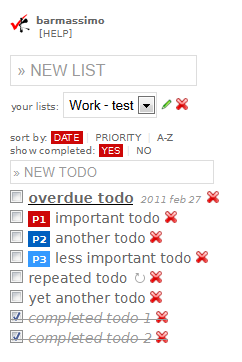
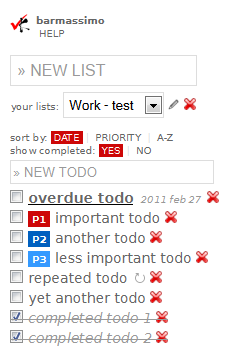
todo edit: added ok button minor fixes

Changed region(s): [[0.0295, 0.1536, 0.9451, 0.9832], [0.1477, 0.0307, 0.443, 0.1229], [0.0295, 0.0307, 0.1181, 0.0922]]

diff --git a/templates/todo/board.html b/templates/todo/board.html
@@ -356,6 +356,28 @@ var kisstodo_board = (function () {
         });
     }     
     
+    res.save_selected_todo = function() {
+        var todo_id=$(".selected_todo").attr("id").replace('todo_li_','');
+        var d = $(".selected_todo .todo_item");
+        
+        var data = {
+            todo_id: todo_id,
+            description: $('#edit_todo_description').val(),
+            priority: $('#edit_todo_priority').val(),
+            list_id: $('#edit_todo_list_id').val(),
+            due_date: $('#edit_todo_due_date').val(),
+            
+            repeat_type: $('#edit_todo_repeat_type').val(),
+            repeat_every: $('#edit_todo_repeat_every').val()
+        };
+        
+        kisstodo_board.lockGui();
+        $.post("{%url todo.views.todo_edit ''%}"+todo_id, data, function (response) {
+            d.fadeOut(0);
+            d.load("{%url todo.views.todo_show_item '' %}"+todo_id, function () {d.fadeIn(kisstodo_board.default_animation_speed);kisstodo_board.unlockGui();});
+        });    
+    }
+    
     res.event_keypress = function(event) {
         
         //console.log ("event_keypress: "+event.which);
@@ -363,24 +385,7 @@ var kisstodo_board = (function () {
         // enter
         if (event.which == 13) {
             if (kisstodo_board.is_todo_edit_active()) {
-                var todo_id=$(".selected_todo").attr("id").replace('todo_li_','');
-                var d = $(".selected_todo .todo_item");
-                
-                var data = {
-                    todo_id: todo_id,
-                    description: $('#edit_todo_description').val(),
-                    priority: $('#edit_todo_priority').val(),
-                    list_id: $('#edit_todo_list_id').val(),
-                    due_date: $('#edit_todo_due_date').val(),
-                    
-                    repeat_type: $('#edit_todo_repeat_type').val(),
-                    repeat_every: $('#edit_todo_repeat_every').val()
-                };
-                
-                $.post("{%url todo.views.todo_edit ''%}"+todo_id, data, function (response) {
-                    d.fadeOut(0);
-                    d.load("{%url todo.views.todo_show_item '' %}"+todo_id, function () {d.fadeIn(kisstodo_board.default_animation_speed);});
-                });    
+                kisstodo_board.save_selected_todo();
             }
             else if (kisstodo_board.is_list_edit_active()) {
                 var list_id=$('#selected_list_option').val();

diff --git a/templates/todo/todo_edit.html b/templates/todo/todo_edit.html
@@ -1,6 +1,7 @@
 <span class="small">Edit todo "{{ todo.description|truncatewords:5 }}"</span>
 <br/>
-<div style="float:left;height:120px; border:1px solid #aaa">
+<div style="float:left;height:150px; border:1px solid #aaa">
+
 <span style="float:left;margin:3px;">
     <span class="small">priority</span><br/>
     <select id="edit_todo_priority" name="edit_todo_priority" >
@@ -13,7 +14,7 @@
 
 <span style="float:left;margin:3px;">
     <span class="small">description</span><br/>
-    <input type="text" value="{{todo.description}}" id="edit_todo_description" name="edit_todo_description" />
+    <input type="text" style="width:145px" value="{{todo.description}}" id="edit_todo_description" name="edit_todo_description" />
 </span>
 
 <span style="float:left;margin:3px;">
@@ -40,6 +41,12 @@
         <option value="{{x.0}}" {% if todo.repeat_type = x.0%}selected="selected"{% endif %}>{{x.1}}</option>
     {% endfor %} 
     </select>    
+</span>
+
+<div style="clear:both"></div>
+
+<span style="float:right;margin:3px;">
+    <input type="submit" name="edit_todo_ok" id="edit_todo_ok"  value="save" onClick="kisstodo_board.save_selected_todo();return false;"  />
 </span>
 
 <script type="text/javascript">

diff --git a/templates/todo/base_auth_site.html b/templates/todo/base_auth_site.html
@@ -3,7 +3,7 @@
 
 {% block content_headline%}
 {{ block.super }}
-<span class="small" style="float:right;position:absolute;right:100;"><b>{% google_user %}</b><br/><a class="help_toggle" href="#">[HELP]</a></span>
+<span class="small" style="float:right;position:absolute;right:100;"><b>{% google_user %}</b><br/><a class="help_toggle" href="#">HELP</a></span>
 <div id="help" style="display:none;">
     <table>
     <tr><th colspan="2">Special, not deletable lists</th></tr>

diff --git a/static/css/main.css b/static/css/main.css
@@ -126,7 +126,7 @@ ul.todos li {
     cursor: default;
 }
 .selected_todo  .todo_description {
-    background-color:#cd0707;
+    background-color:#a0a7a7;
     color: #666;
     text-decoration: none;
 }

diff --git a/app_version.py b/app_version.py
@@ -16,6 +16,6 @@
 
 APP_VERSION_MAJOR=1
 APP_VERSION_MINOR=18
-APP_VERSION_FIX=4
+APP_VERSION_FIX=7
 
 APP_VERSION="%s.%s.%s" % (APP_VERSION_MAJOR, APP_VERSION_MINOR, APP_VERSION_FIX)
